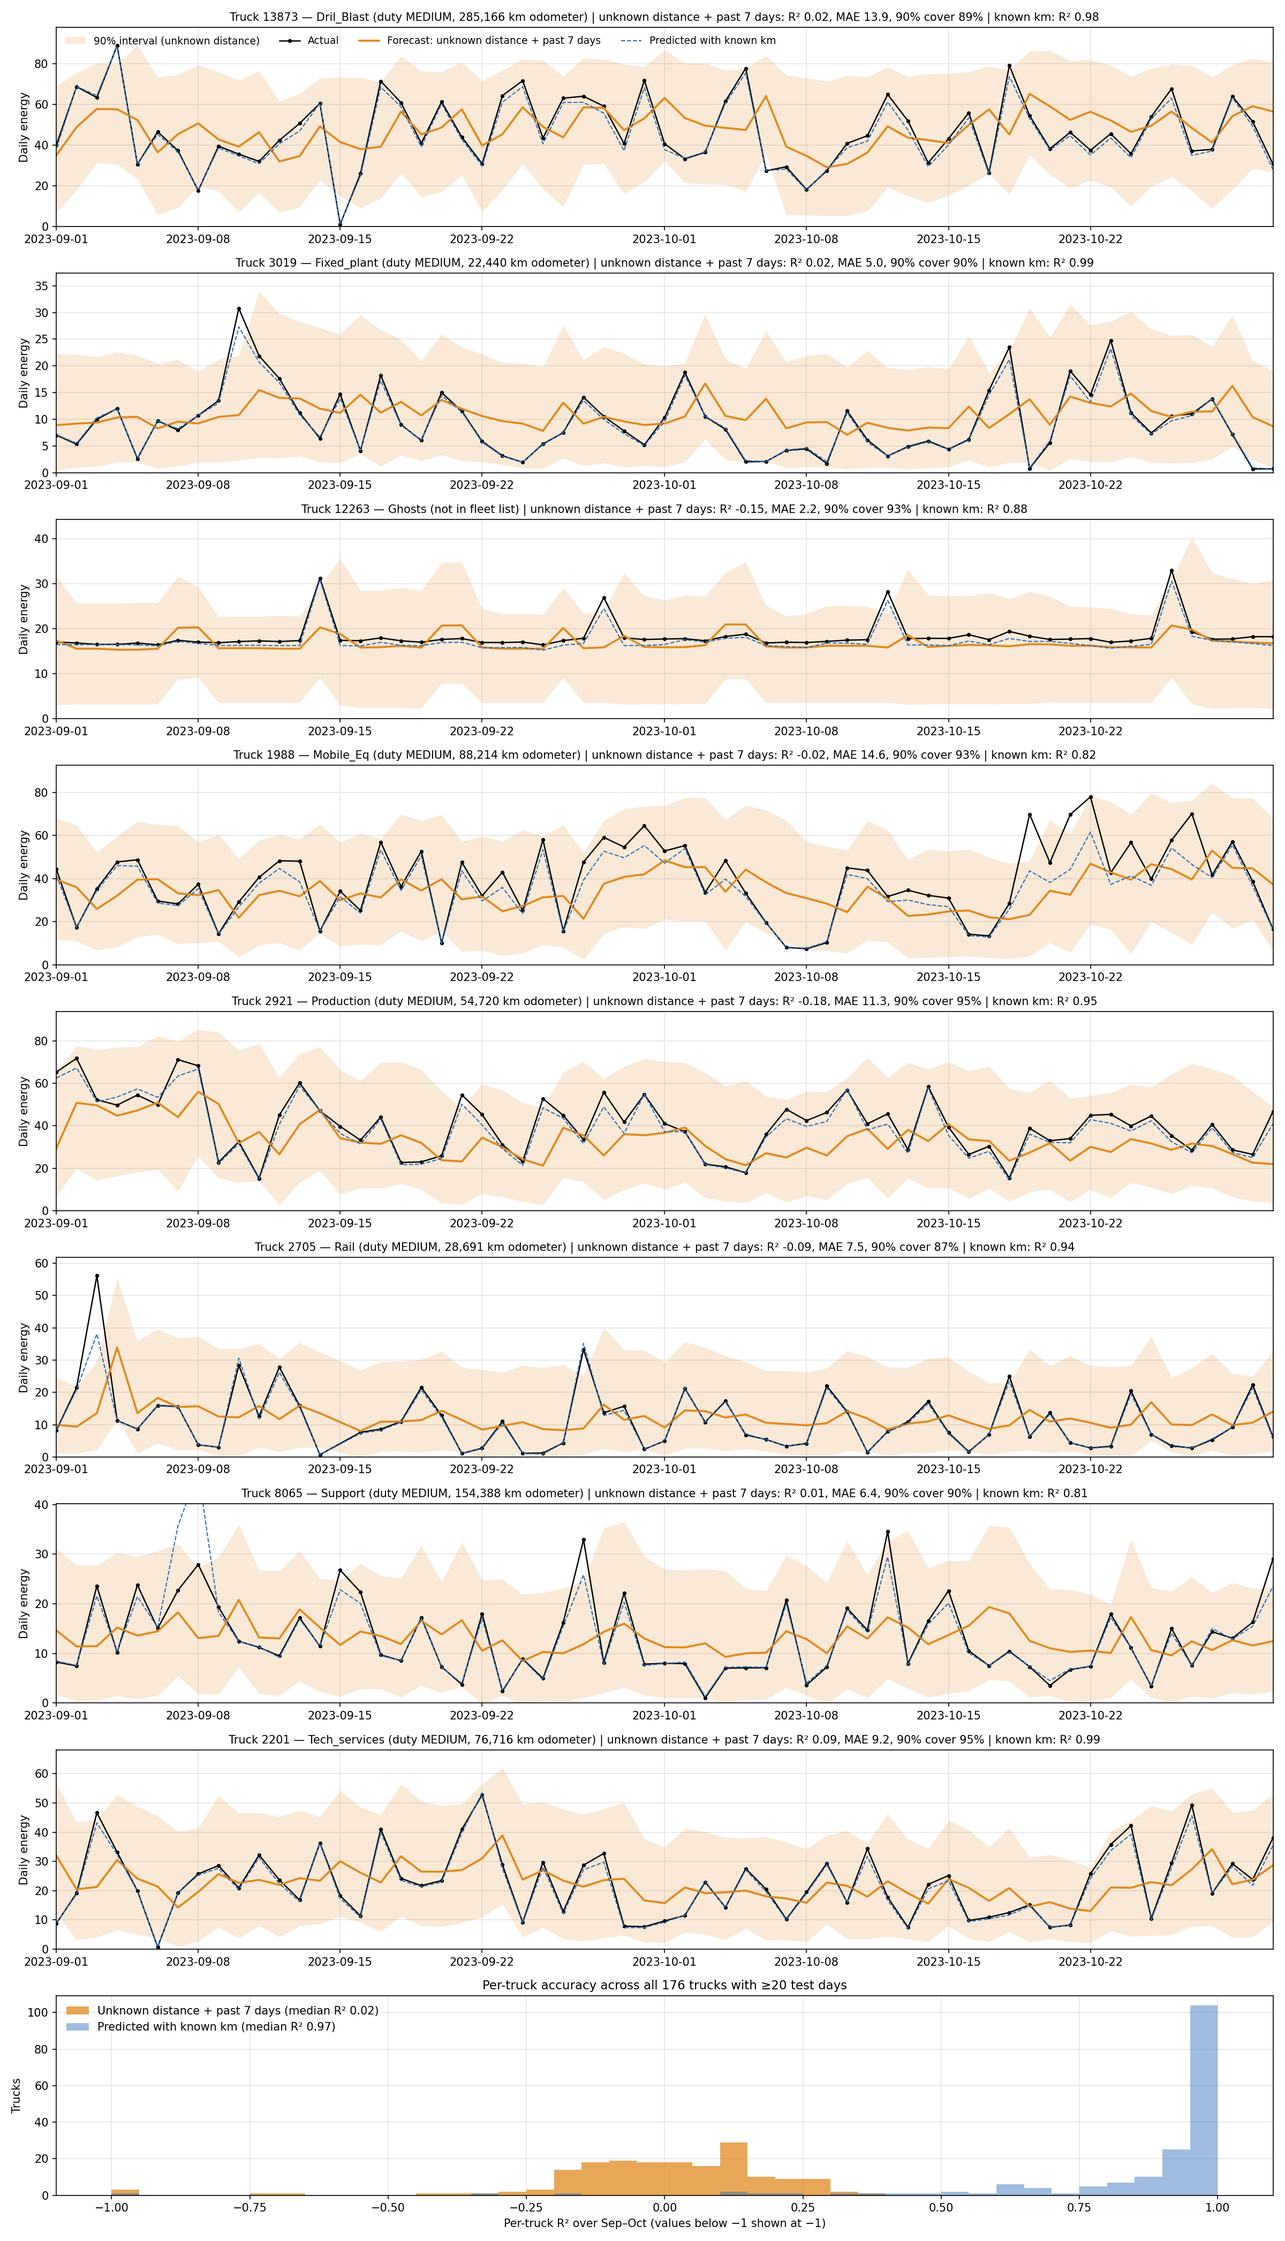
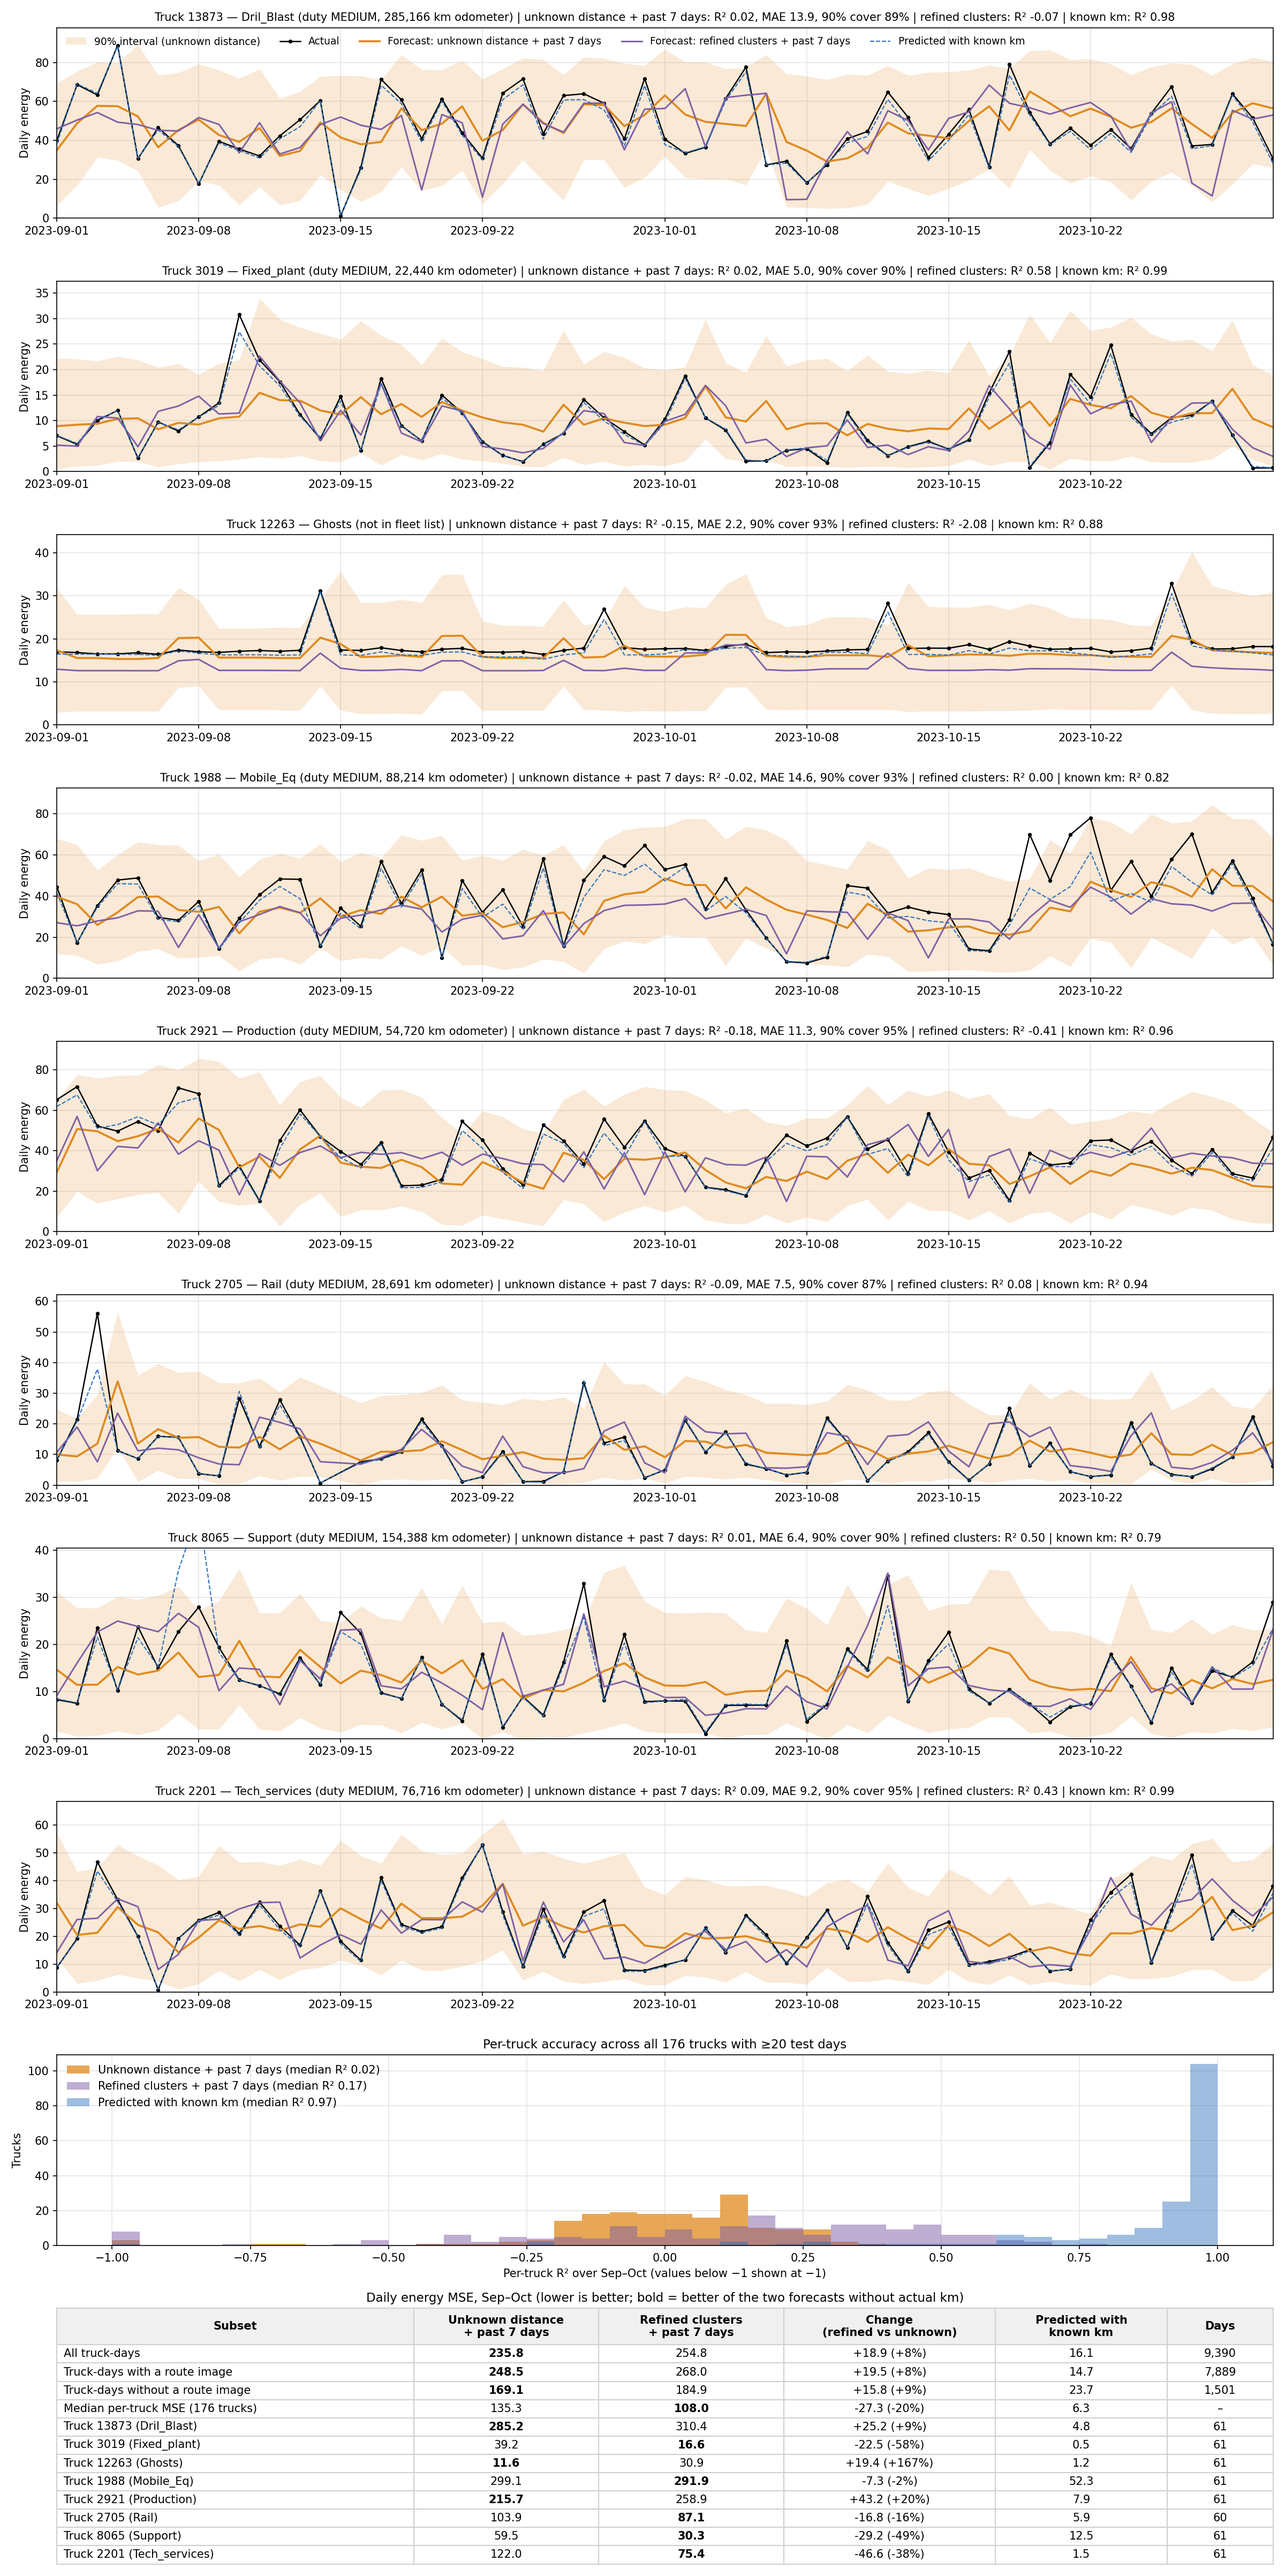
Add refined-cluster forecast and MSE table to trucks panel
Adds a 'refined clusters + past 7 days' model (planned km from
distance-refined route image clusters, k=20, weight=0.5) to each truck
panel and the per-truck R² histogram, plus a daily energy MSE table
comparing it with the unknown-distance and known-km models.

diff --git a/energy_uncertainty/predict_trucks_panel.py b/energy_uncertainty/predict_trucks_panel.py
@@ -6,10 +6,14 @@ Models (trained Jan-Aug on all trucks, tested Sep-Oct):
       truck's own previous active days (last day's energy and km, mean and std
       of the last 7 active days, days since last active). No route clusters and
       no same-day distance.
+  refined clusters + past 7 days : same as above plus planned km from route
+      image clusters refined with daily distance (predict_energy_route_cluster_
+      refined.py, k=20, weight=0.5, the best setting there); a day is assigned
+      to a cluster by its route image only, so actual km is not used.
   predicted with known km : uses the truck's actual GPS km that day (upper bound)
 
 Each panel shows one truck: actual energy, the unknown-distance forecast with
-its 90% interval, and the known-km prediction. A final panel shows the
+its 90% interval, the refined-cluster forecast and the known-km prediction. A final panel shows the
 distribution of per-truck R^2 across all trucks with enough test days.
 
 Usage: python predict_trucks_panel.py [TruckId ...]
@@ -20,16 +24,19 @@ from pathlib import Path
 import matplotlib.pyplot as plt
 import numpy as np
 import pandas as pd
-from sklearn.metrics import mean_absolute_error, r2_score
+from sklearn.metrics import mean_absolute_error, mean_squared_error, r2_score
 
 from predict_energy import build_dataset
 from predict_energy_forecast import HISTORY, STATIC, add_history, fit
+from predict_energy_route_cluster_refined import image_features, planned_km
 from predict_energy_scenarios import run
 
 HERE = Path(__file__).resolve().parent
 SPLIT = "2023-09-01"
 MIN_TEST_DAYS = 20
 DEFAULT_TRUCKS = [13873, 3019, 12263, 1988, 2921, 2705, 8065, 2201]  # one per category, most Sep-Oct days
+REFINED_K, REFINED_W = 20, 0.5   # best image-only setting in predict_energy_route_cluster_refined.py
+REFINED_COLOR = "#7e5fa6"
 
 
 def per_truck_scores(test: pd.DataFrame, pred: np.ndarray) -> pd.DataFrame:
@@ -42,45 +49,77 @@ def per_truck_scores(test: pd.DataFrame, pred: np.ndarray) -> pd.DataFrame:
     return pd.DataFrame(rows, columns=["TruckId", "category", "days", "R2", "MAE"])
 
 
+def mse_table(test: pd.DataFrame, preds: dict, trucks: list) -> list[list[str]]:
+    """Rows of the MSE table: subsets, median per-truck MSE, then the panel trucks."""
+    names = list(preds)
+    t = test.assign(**{f"p{i}": v for i, v in enumerate(preds.values())})
+    mse = lambda g: [mean_squared_error(g["energy"], g[f"p{i}"]) for i in range(len(names))]
+    img = t["planned_km"].notna()
+    rows = [("All truck-days", mse(t), len(t)),
+            ("Truck-days with a route image", mse(t[img]), int(img.sum())),
+            ("Truck-days without a route image", mse(t[~img]), int((~img).sum()))]
+    ok = t.groupby("TruckId").filter(lambda g: len(g) >= MIN_TEST_DAYS and g["energy"].var() > 0)
+    per = np.array([mse(g) for _, g in ok.groupby("TruckId")])
+    rows.append((f"Median per-truck MSE ({len(per)} trucks)", list(np.median(per, axis=0)), None))
+    for tid in trucks:
+        g = t[t["TruckId"] == tid]
+        rows.append((f"Truck {tid} ({g['truck_category'].iloc[0]})", mse(g), len(g)))
+    cells = []
+    for label, (u, r, k), n in rows:
+        cells.append([label, f"{u:.1f}", f"{r:.1f}", f"{r - u:+.1f} ({(r - u) / u:+.0%})", f"{k:.1f}",
+                      "–" if n is None else f"{n:,}"])
+    return cells
+
+
 def main(trucks=None):
     d = add_history(build_dataset())
+    # refined-cluster planned km; truck-days without a route image keep NaN (filled with -1 in fit)
+    pk = planned_km(d, image_features(d), REFINED_W, REFINED_K)[["TruckId", "date", "planned_km"]]
+    d = d.merge(pk, on=["TruckId", "date"], how="left")
     train, test = d[d["date"] < SPLIT], d[d["date"] >= SPLIT]
     print("fitting models...")
     forecast = fit(train, test, STATIC + HISTORY, quantiles=True)
+    refined = fit(train, test, STATIC + ["planned_km"] + HISTORY)
     known = run(train, test, 0.0)
 
     trucks = [t for t in (trucks or DEFAULT_TRUCKS) if t in set(test["TruckId"])]
     scores = per_truck_scores(test, forecast["pred"])
+    scores_refined = per_truck_scores(test, refined["pred"])
     scores_known = per_truck_scores(test, known["pred"])
 
     n = len(trucks)
-    fig, axes = plt.subplots(n + 1, 1, figsize=(16, 3.1 * (n + 1)), dpi=150)
+    fig, axes = plt.subplots(n + 2, 1, figsize=(16, 3.1 * (n + 1) + 0.32 * (n + 5)), dpi=150,
+                             gridspec_kw={"height_ratios": [3.1] * (n + 1) + [0.32 * (n + 5)]})
     for ax, tid in zip(axes, trucks):
         m = (test["TruckId"] == tid).to_numpy()
         tt = test[m]
         y = tt["energy"].to_numpy()
         p, lo, hi, pk = forecast["pred"][m], forecast["lo"][m], forecast["hi"][m], known["pred"][m]
+        pr = refined["pred"][m]
         cov = np.mean((y >= lo) & (y <= hi))
         ax.fill_between(tt["date"], lo, hi, color="#e08a1e", alpha=0.18, lw=0, label="90% interval (unknown distance)")
         ax.plot(tt["date"], y, color="black", lw=1.2, marker="o", ms=2.5, label="Actual")
         ax.plot(tt["date"], p, color="#e08a1e", lw=1.8, label="Forecast: unknown distance + past 7 days")
+        ax.plot(tt["date"], pr, color=REFINED_COLOR, lw=1.4, label="Forecast: refined clusters + past 7 days")
         ax.plot(tt["date"], pk, color="#2a6ebb", lw=1, ls="--", label="Predicted with known km")
         info = tt.iloc[0]
         attrs = f"duty {info['duty_cycle']}, {info['km']:,.0f} km odometer" if info["in_fleet"] else "not in fleet list"
         ax.set_title(f"Truck {tid} — {info['truck_category']} ({attrs}) | unknown distance + past 7 days: "
                      f"R² {r2_score(y, p):.2f}, MAE {mean_absolute_error(y, p):.1f}, 90% cover {cov:.0%} | "
-                     f"known km: R² {r2_score(y, pk):.2f}", fontsize=10)
+                     f"refined clusters: R² {r2_score(y, pr):.2f} | known km: R² {r2_score(y, pk):.2f}", fontsize=10)
         ax.set_ylabel("Daily energy")
         ax.set_ylim(0, max(y.max(), hi.max()) * 1.1)
         ax.set_xlim(test["date"].min(), test["date"].max())
         ax.grid(color="#e5e5e5")
         ax.set_axisbelow(True)
-    axes[0].legend(frameon=False, loc="upper left", ncol=4, fontsize=9)
+    axes[0].legend(frameon=False, loc="upper left", ncol=5, fontsize=9)
 
-    ax = axes[-1]
+    ax = axes[-2]
     bins = np.linspace(-1, 1, 41)
     ax.hist(scores["R2"].clip(-1, 1), bins=bins, color="#e08a1e", alpha=0.75,
             label=f"Unknown distance + past 7 days (median R² {scores['R2'].median():.2f})")
+    ax.hist(scores_refined["R2"].clip(-1, 1), bins=bins, color=REFINED_COLOR, alpha=0.5,
+            label=f"Refined clusters + past 7 days (median R² {scores_refined['R2'].median():.2f})")
     ax.hist(scores_known["R2"].clip(-1, 1), bins=bins, color="#2a6ebb", alpha=0.45,
             label=f"Predicted with known km (median R² {scores_known['R2'].median():.2f})")
     ax.set_xlabel("Per-truck R² over Sep–Oct (values below −1 shown at −1)")
@@ -90,6 +129,31 @@ def main(trucks=None):
     ax.grid(color="#e5e5e5")
     ax.set_axisbelow(True)
 
+    ax = axes[-1]
+    ax.axis("off")
+    cells = mse_table(test, {"u": forecast["pred"], "r": refined["pred"], "k": known["pred"]}, trucks)
+    cols = ["Subset", "Unknown distance\n+ past 7 days", "Refined clusters\n+ past 7 days",
+            "Change\n(refined vs unknown)", "Predicted with\nknown km", "Days"]
+    tab = ax.table(cellText=cells, colLabels=cols, loc="center", cellLoc="center",
+                   colWidths=[0.27, 0.14, 0.14, 0.16, 0.13, 0.08], bbox=[0, 0, 1, 1])
+    tab.auto_set_font_size(False)
+    tab.set_fontsize(10)
+    for (r, c), cell in tab.get_celld().items():
+        cell.set_edgecolor("#d0d0d0")
+        if r == 0:
+            cell.set_height(cell.get_height() * 2)   # two-line headers; bbox rescales the rest
+            cell.set_facecolor("#f0f0f0")
+            cell.set_text_props(weight="bold")
+        elif c in (1, 2):   # bold the better of the two forecasts (neither uses actual km)
+            u, rr = float(cells[r - 1][1]), float(cells[r - 1][2])
+            if (c == 1) == (u < rr):
+                cell.set_text_props(weight="bold")
+        if c == 0 and r > 0:
+            cell.set_text_props(ha="left")
+            cell.PAD = 0.02
+    ax.set_title("Daily energy MSE, Sep–Oct (lower is better; bold = better of the two forecasts without actual km)",
+                 fontsize=11)
+
     fig.tight_layout()
     fig.savefig(HERE / "energy_prediction_trucks_panel.png")
     plt.close(fig)
@@ -98,10 +162,14 @@ def main(trucks=None):
     print(f"all truck-days: unknown distance + past 7 days R2 {r2_score(y, forecast['pred']):.3f}, "
           f"MAE {mean_absolute_error(y, forecast['pred']):.2f}, "
           f"90% coverage {np.mean((y >= forecast['lo']) & (y <= forecast['hi'])):.1%}; "
+          f"refined clusters + past 7 days R2 {r2_score(y, refined['pred']):.3f}, "
+          f"MAE {mean_absolute_error(y, refined['pred']):.2f}; "
           f"known km R2 {r2_score(y, known['pred']):.3f}")
     print(scores[scores["TruckId"].isin(trucks)].round(2).to_string(index=False))
     print("\nper-truck R2 (unknown distance + past 7 days) by category, median:")
     print(scores.groupby("category")["R2"].agg(["median", "count"]).round(2).to_string())
+    print("\nper-truck R2 (refined clusters + past 7 days) by category, median:")
+    print(scores_refined.groupby("category")["R2"].agg(["median", "count"]).round(2).to_string())
     print(f"\nshare of trucks with R2 > 0: {np.mean(scores['R2'] > 0):.0%}, > 0.5: {np.mean(scores['R2'] > 0.5):.0%}")
 
 
